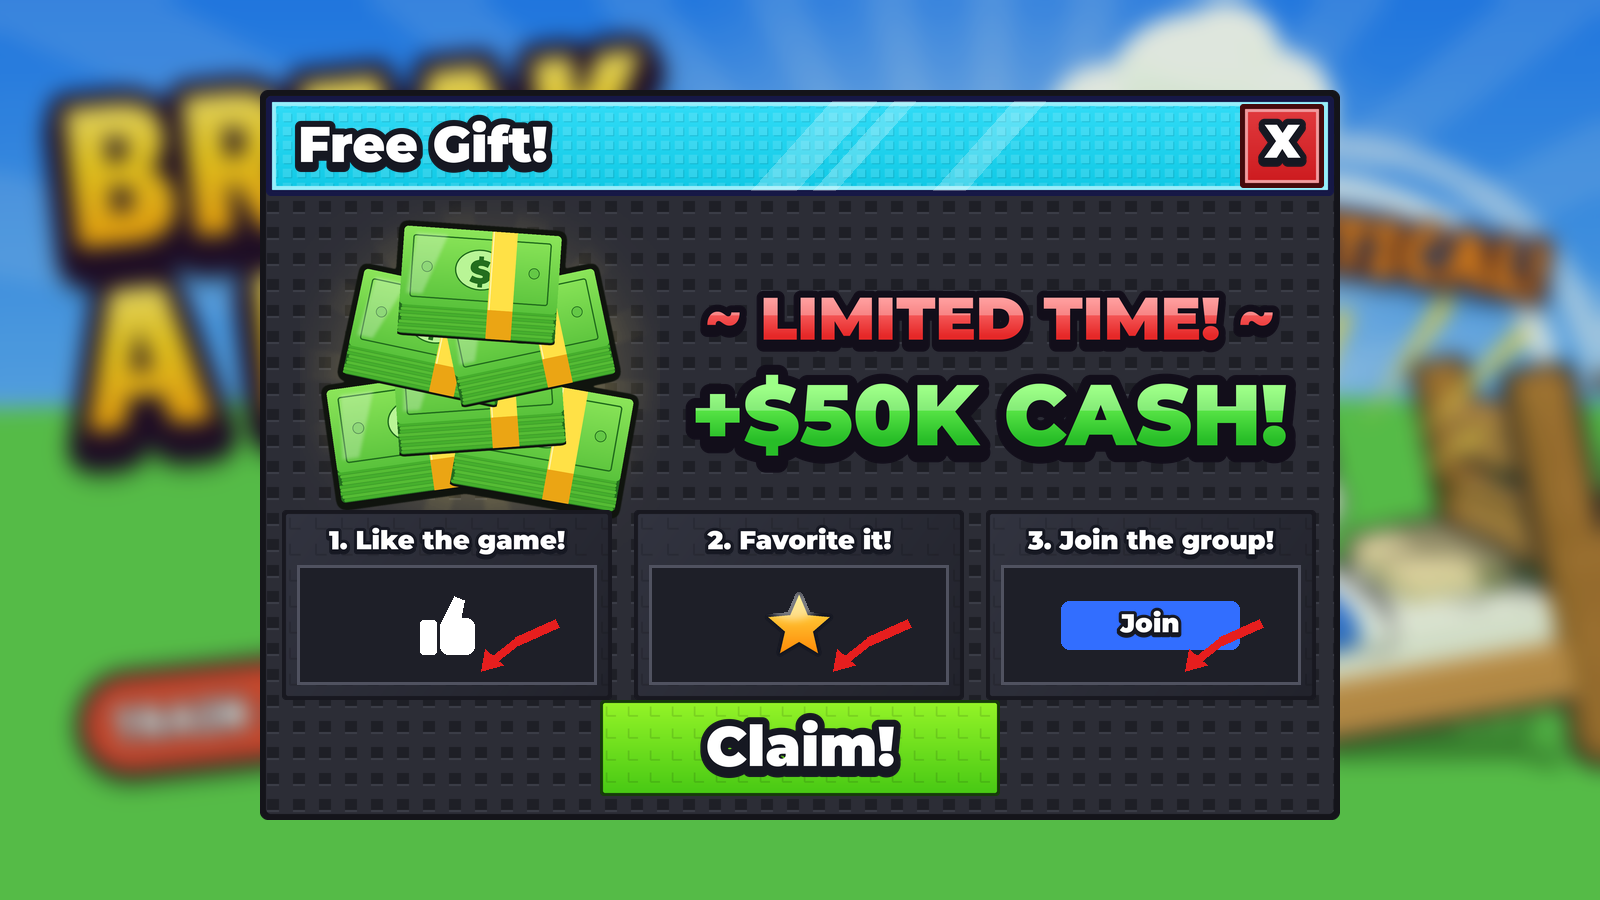
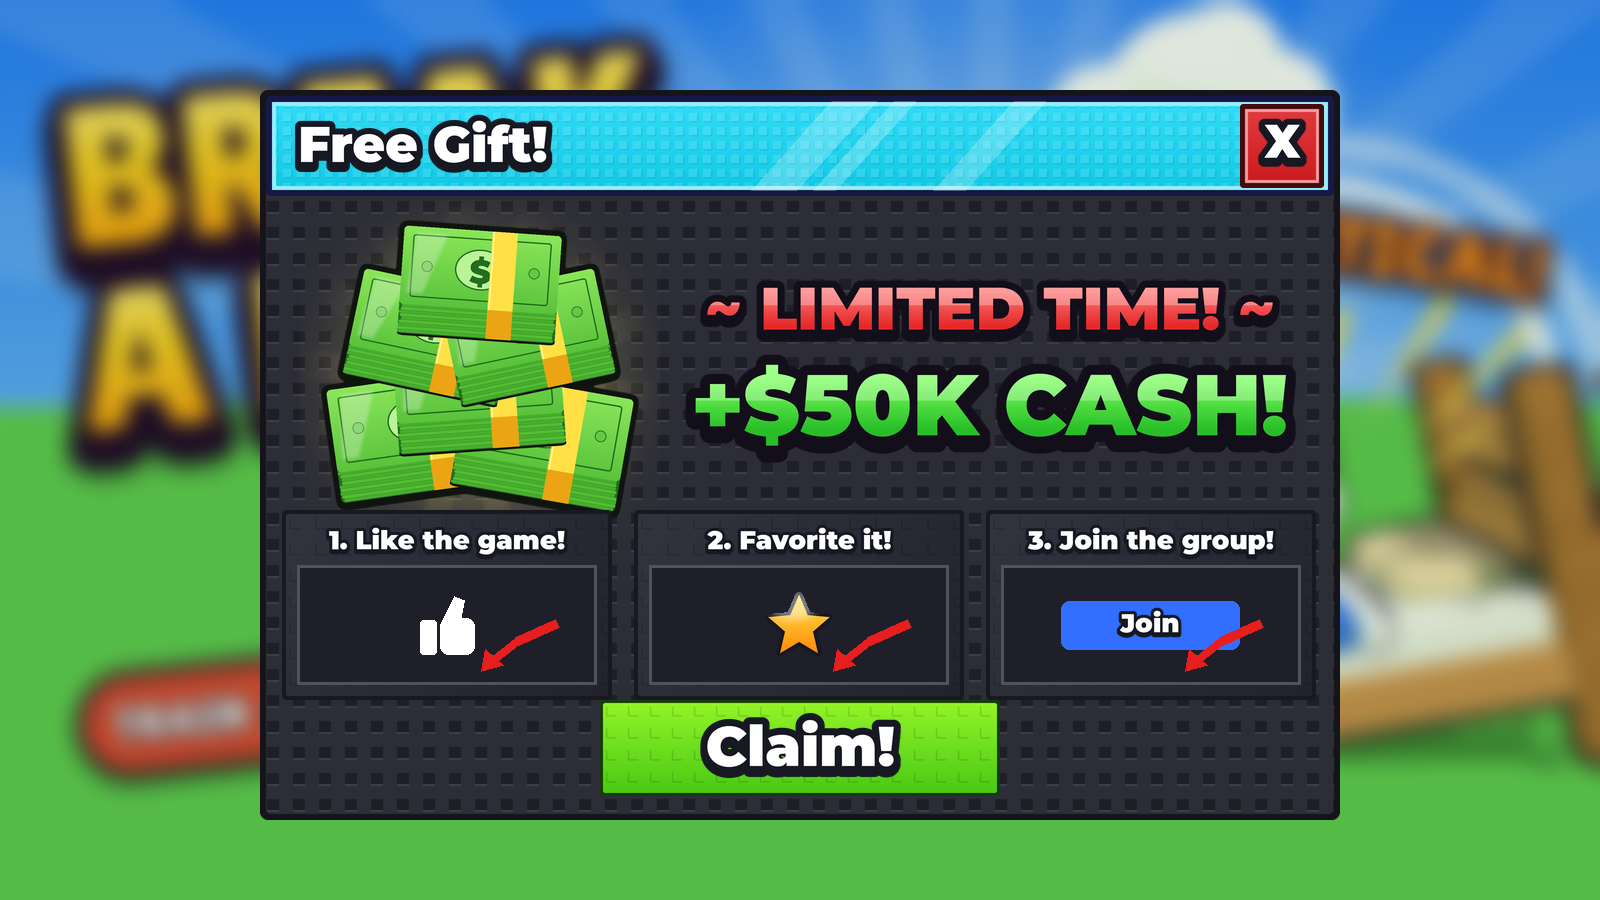
Break A Bed: Free Gift headline 10 px higher
Claude-Session: https://claude.ai/code/session_016uvrS3Ui1ijFbyufuEdzSK

Changed region(s): [[0.4062, 0.3111, 0.8125, 0.5289]]

diff --git a/Break A Bed/UI Kit/source/freegift.py b/Break A Bed/UI Kit/source/freegift.py
@@ -18,8 +18,8 @@ def popup(bgpath, out):
     hero.alpha_composite(A.burst(360, (255, 230, 120), 14, 70))
     hero.alpha_composite(art.cash_pile(320, 5), (20, 10))
     img.alpha_composite(hero, (x0 + 40, y0 + 110))  # step cards are drawn after this, so they sit on top of the pile
-    A.stroke_text(img, (x0 + 730, y0 + 228), '~ LIMITED TIME! ~', 60, (255, 120, 120), (230, 40, 40), anchor='mm')
-    A.stroke_text(img, (x0 + 730, y0 + 325), '+$50K CASH!', 86, (120, 255, 90), (40, 190, 40), anchor='mm')
+    A.stroke_text(img, (x0 + 730, y0 + 218), '~ LIMITED TIME! ~', 60, (255, 120, 120), (230, 40, 40), anchor='mm')
+    A.stroke_text(img, (x0 + 730, y0 + 315), '+$50K CASH!', 86, (120, 255, 90), (40, 190, 40), anchor='mm')
     steps = [('1. Like the game!', 'thumb'), ('2. Favorite it!', 'star'), ('3. Join the group!', 'group')]
     cw = (ww - 4 * 22) // 3
     for i, (t, k) in enumerate(steps):

diff --git a/Break A Bed/Free Rewards/Free Rewards.md b/Break A Bed/Free Rewards/Free Rewards.md
@@ -22,7 +22,7 @@ Owner's request (2026-10-12): copy two things from the simulator the owner likes
 ![[preview-free-gift.png]]
 
 - It pops up **once**, after the [[Break A Bed/New Player Guide|New Player Guide]] (never during it), and can be reopened from the Gifts menu until claimed.
-- **Look:** the FINAL STYLE window with a cyan "Free Gift!" title bar, a big cash pile with a glow on the left, **big** "~ LIMITED TIME! ~" in red (about 60 px) and a **huge** "+$50K CASH!" in green (about 86 px), filling the space right of the pile without touching the window edge, then 3 dark step cards (1. Like the game! 2. Favorite it! 3. Join the group!), each with a small picture of where to click and a red arrow, then a big green **Claim!** button.
+- **Look:** the FINAL STYLE window with a cyan "Free Gift!" title bar, a big cash pile with a glow on the left, **big** "~ LIMITED TIME! ~" in red (about 60 px) and a **huge** "+$50K CASH!" in green (about 86 px), filling the space right of the pile without touching the window edge (both moved 10 px higher), then 3 dark step cards (1. Like the game! 2. Favorite it! 3. Join the group!), each with a small picture of where to click and a red arrow, then a big green **Claim!** button.
 - **What can be checked:** only the **group join** can be checked (`player:IsInGroupAsync(GroupId)` for **Myanmar Builders Club**). Roblox gives games no way to check likes, and favorites can only be prompted (`AvatarEditorService:PromptSetFavorite`), not checked.
   - So **Claim!** works when the player is in the group (otherwise: "Join the group first!"). Like and Favorite are just asked nicely.
   - Add a **Favorite** button on step 2 that opens Roblox's favorite prompt.
